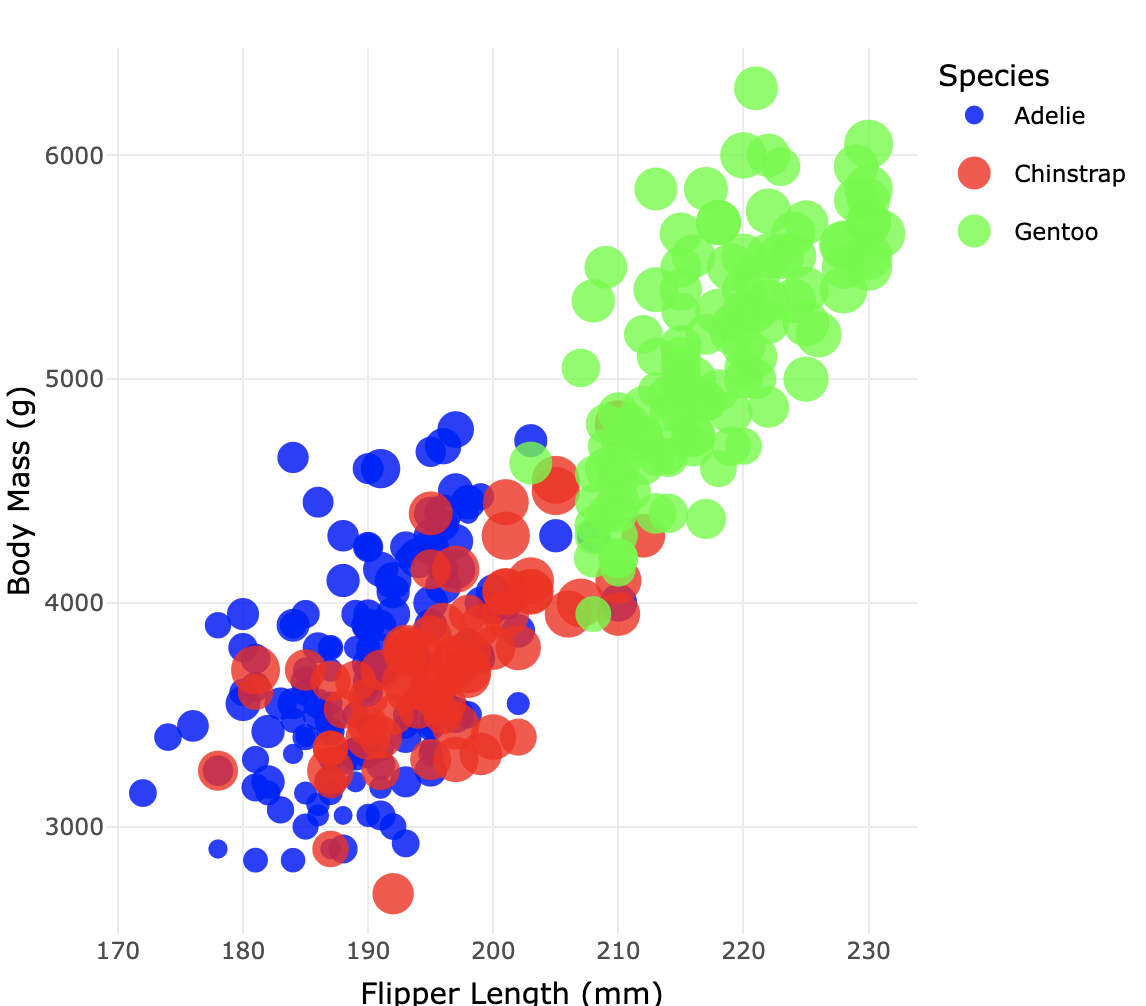
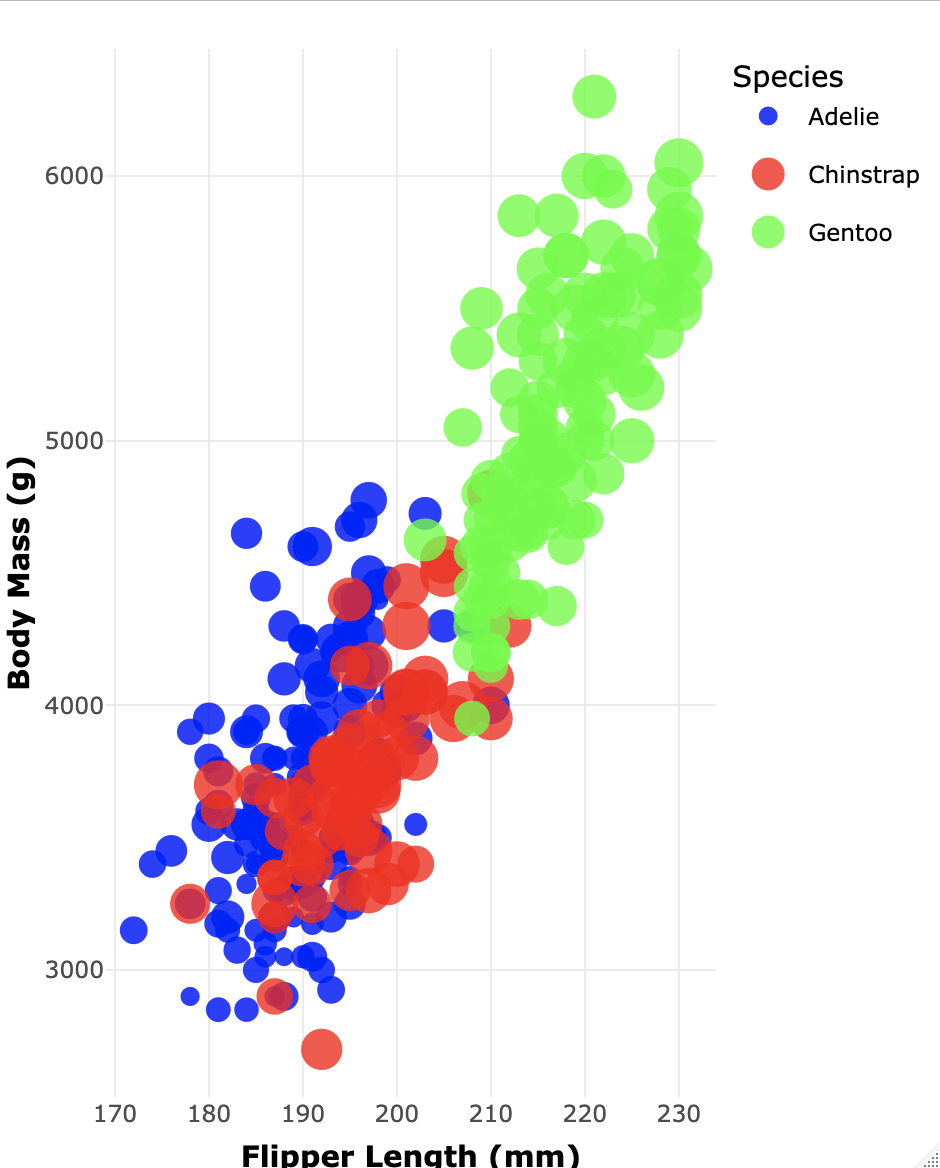
Writing updates

diff --git a/WRITEUP.md b/WRITEUP.md
@@ -85,12 +85,16 @@ Overall, this tool was probably the easiest to use since it didn't require any c
 
 GGplot2 and Plotly are both R packages designed for creating visualizations. The primary difference between the two is that Plotly offers more interactive functionalities, whereas ggplot2 is mainly for "flat" visuals. 
 
-To visualize the penglings dataset, I first installed the required packages/libraries and then proceeded to enter the parameters for the baseline graph using the `ggplot` function. In order to alter it from the example provided in class, I added theme elements and a `guides` function for the species legend. I also converted the ggplot2 graph into plotly so that I could add interactive elements for the technical achievements. 
+To visualize the penglings dataset, I first installed the required packages/libraries and then proceeded to enter the parameters for the baseline graph using the `ggplot` function. In order to alter it from the example provided in class, I added `theme()` elements and a `guides` function for the species legend. I also converted the ggplot2 graph into plotly so that I could add interactive elements for the technical achievements. 
 
 Overall, these tools and library were fairly easy to use (not much different that matplotlib and plotly express in Python). I can see them being useful for statistics-centered visualizations and tasks that focus more on mathematical operations as opposed to user interface. 
 
 ### Technical Achievements
 
 By integrating Plotly's `ggplotly()` function into the graph, I was able to make a hover-to-inspect feature for users to interact with.
+
+### Creative Achievements
+
+Within the `theme()` function I added code that bolded the axes labels and also increased their margins from the x/y axes.
 
 ![RVis](img/RVis.png)
